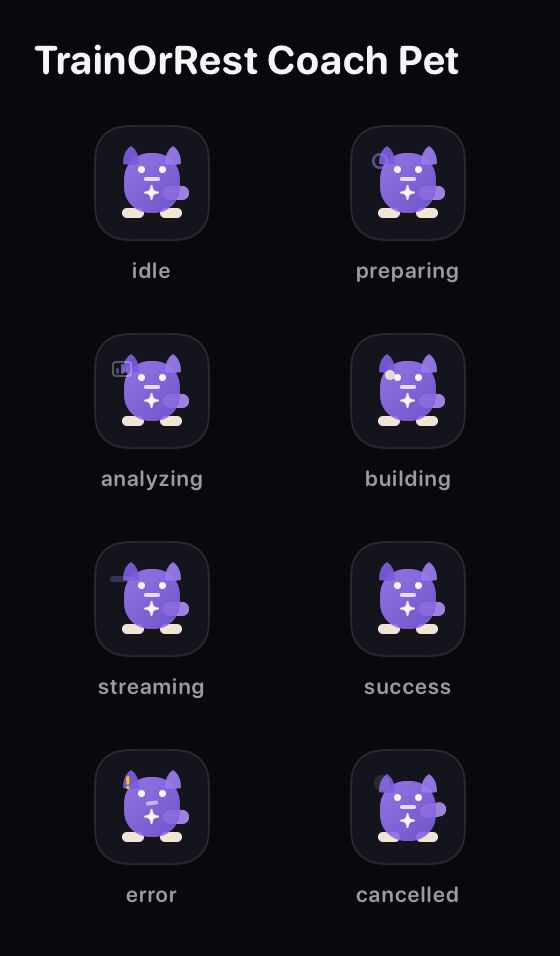
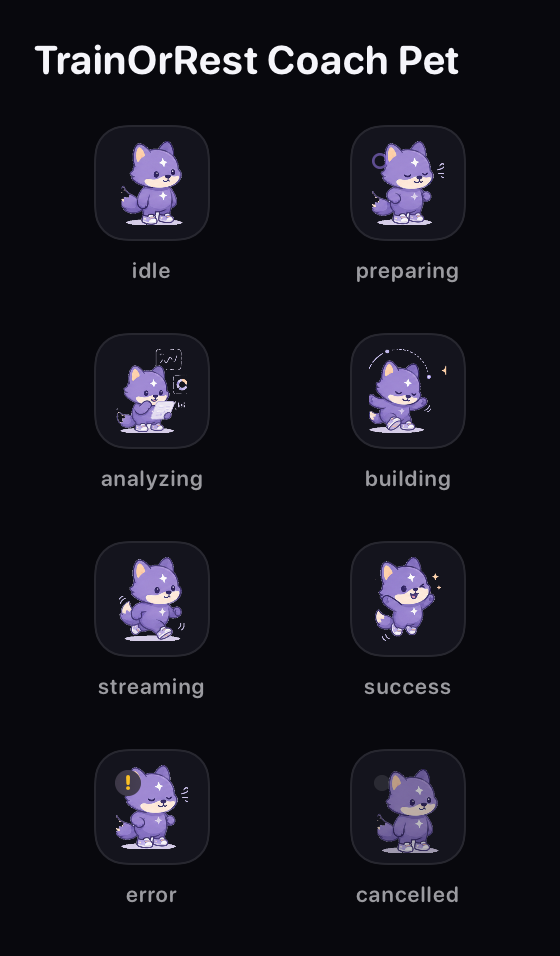
feat(coach): use generated pet assets

diff --git a/TrainOrRest/Views/ChatBubble.swift b/TrainOrRest/Views/ChatBubble.swift
@@ -688,138 +688,64 @@ struct CoachPetView: View {
 
     var body: some View {
         ZStack {
-            tail
-                .offset(x: 12, y: 5)
-                .rotationEffect(.degrees(tailAngle), anchor: .leading)
-            shoes
-                .offset(y: 15)
-            petBody
-                .offset(y: bodyOffset)
-            ears
-                .offset(y: -14 + bodyOffset)
-            face
-                .offset(y: -5 + bodyOffset)
-            prop
+            Image(assetName)
+                .resizable()
+                .scaledToFit()
+                .frame(width: 42, height: 42)
+                .scaleEffect(scale)
+                .offset(x: horizontalOffset, y: bodyOffset)
+                .rotationEffect(.degrees(rotationAngle))
+                .opacity(state == .cancelled ? 0.72 : 1)
+
+            stateOverlay
         }
         .frame(width: 42, height: 42)
-        .drawingGroup()
         .onAppear { startAnimationIfNeeded() }
         .onChange(of: state) { _, _ in startAnimationIfNeeded() }
         .onChange(of: reduceMotion) { _, _ in startAnimationIfNeeded() }
         .onChange(of: isActive) { _, _ in startAnimationIfNeeded() }
     }
 
-    private var petBody: some View {
-        RoundedRectangle(cornerRadius: 13, style: .continuous)
-            .fill(
-                LinearGradient(
-                    colors: [Theme.accent.opacity(0.94), Theme.accent2.opacity(0.88)],
-                    startPoint: .topLeading,
-                    endPoint: .bottomTrailing
-                )
-            )
-            .frame(width: 28, height: 30)
-            .overlay(alignment: .center) {
-                Image(systemName: "sparkle")
-                    .font(.system(size: 7, weight: .black))
-                    .foregroundStyle(.white.opacity(0.94))
-                    .offset(y: 5)
-            }
-    }
-
-    private var ears: some View {
-        HStack(spacing: 13) {
-            CoachPetEar()
-                .fill(Theme.accent2.opacity(0.92))
-                .frame(width: 8, height: 9)
-                .rotationEffect(.degrees(earAngle))
-            CoachPetEar()
-                .fill(Theme.accent.opacity(0.92))
-                .frame(width: 8, height: 9)
-                .scaleEffect(x: -1, y: 1)
-                .rotationEffect(.degrees(-earAngle))
-        }
-    }
-
-    private var face: some View {
-        VStack(spacing: 2) {
-            HStack(spacing: 7) {
-                Circle().fill(Color.white.opacity(0.94)).frame(width: 3.5, height: 3.5)
-                Circle().fill(Color.white.opacity(0.94)).frame(width: 3.5, height: 3.5)
-            }
-            RoundedRectangle(cornerRadius: 2, style: .continuous)
-                .fill(Color.white.opacity(state == .error ? 0.55 : 0.78))
-                .frame(width: state == .error ? 6 : 8, height: 2)
-                .rotationEffect(.degrees(state == .error ? -8 : 0))
-        }
-    }
-
-    private var tail: some View {
-        Capsule(style: .continuous)
-            .fill(Color(uiColor: UIColor(hex: 0xD9B38C)).opacity(0.86))
-            .frame(width: 13, height: 7)
-            .overlay(alignment: .trailing) {
-                Capsule(style: .continuous)
-                    .fill(Theme.accent.opacity(0.85))
-                    .frame(width: 7, height: 7)
-            }
-    }
-
-    private var shoes: some View {
-        HStack(spacing: 8) {
-            Capsule(style: .continuous)
-                .fill(Color(uiColor: UIColor(hex: 0xF2E5D6)))
-                .frame(width: 11, height: 5)
-                .offset(y: shoeOffset)
-            Capsule(style: .continuous)
-                .fill(Color(uiColor: UIColor(hex: 0xF2E5D6)))
-                .frame(width: 11, height: 5)
-                .offset(y: -shoeOffset)
+    private var assetName: String {
+        switch state {
+        case .hidden, .idle, .cancelled:
+            return "coach-pet-idle"
+        case .preparing:
+            return "coach-pet-breathing"
+        case .analyzing:
+            return "coach-pet-analyzing"
+        case .buildingRecommendation:
+            return "coach-pet-building"
+        case .streaming:
+            return "coach-pet-jog"
+        case .success:
+            return "coach-pet-success"
+        case .error:
+            return "coach-pet-breathing"
         }
     }
 
     @ViewBuilder
-    private var prop: some View {
+    private var stateOverlay: some View {
         switch state {
         case .preparing:
             Circle()
                 .strokeBorder(Theme.accent.opacity(0.55), lineWidth: 1.3)
                 .frame(width: 8, height: 8)
                 .offset(x: -14, y: -11)
-        case .analyzing:
-            RoundedRectangle(cornerRadius: 2, style: .continuous)
-                .strokeBorder(Theme.faint.opacity(0.6), lineWidth: 1)
-                .frame(width: 10, height: 8)
-                .overlay(alignment: .bottom) {
-                    HStack(alignment: .bottom, spacing: 1) {
-                        Capsule().fill(Theme.accent.opacity(0.45)).frame(width: 1.5, height: 3)
-                        Capsule().fill(Theme.accent.opacity(0.65)).frame(width: 1.5, height: 5)
-                        Capsule().fill(Theme.accent.opacity(0.35)).frame(width: 1.5, height: 4)
-                    }
-                    .padding(.bottom, 1.5)
-                }
-                .offset(x: -15, y: -11)
-        case .buildingRecommendation:
-            Circle()
-                .fill(Color(uiColor: UIColor(hex: 0xF2E5D6)).opacity(0.9))
-                .frame(width: 5, height: 5)
-                .offset(x: loop && shouldAnimate ? -12 : -9, y: -8)
-        case .streaming:
-            Capsule(style: .continuous)
-                .fill(Theme.accent.opacity(0.28))
-                .frame(width: 12, height: 3)
-                .offset(x: -15, y: -10)
         case .error:
             Image(systemName: "exclamationmark")
-                .font(.system(size: 7, weight: .black))
+                .font(.system(size: 8, weight: .black))
                 .foregroundStyle(Theme.warn)
+                .frame(width: 13, height: 13)
+                .background(.thinMaterial, in: Circle())
                 .offset(x: -12, y: -12)
         case .cancelled:
             Circle()
                 .fill(Theme.faint.opacity(0.2))
                 .frame(width: 8, height: 8)
                 .offset(x: -13, y: -12)
-        case .hidden, .idle, .success:
+        case .hidden, .idle, .analyzing, .buildingRecommendation, .streaming, .success:
             EmptyView()
         }
     }
@@ -836,19 +762,38 @@ struct CoachPetView: View {
         }
     }
 
-    private var shoeOffset: CGFloat {
+    private var horizontalOffset: CGFloat {
         guard shouldAnimate else { return 0 }
-        return loop ? -1.5 : 1.5
+        switch state {
+        case .analyzing:
+            return loop ? -0.8 : 0.8
+        case .buildingRecommendation:
+            return loop ? 0.8 : -0.8
+        default:
+            return 0
+        }
     }
 
-    private var tailAngle: Double {
-        guard shouldAnimate else { return state == .cancelled ? -10 : 0 }
-        return loop ? 13 : -8
+    private var rotationAngle: Double {
+        guard shouldAnimate else { return 0 }
+        switch state {
+        case .buildingRecommendation:
+            return loop ? -1.8 : 1.8
+        case .analyzing:
+            return loop ? 1.2 : -1.2
+        default:
+            return 0
+        }
     }
 
-    private var earAngle: Double {
-        guard shouldAnimate else { return 0 }
-        return loop ? -5 : 4
+    private var scale: CGFloat {
+        if state == .success {
+            return shouldAnimate && loop ? 1.03 : 1
+        }
+        if state == .preparing {
+            return shouldAnimate && loop ? 1.015 : 1
+        }
+        return 1
     }
 
     private func startAnimationIfNeeded() {
@@ -857,17 +802,6 @@ struct CoachPetView: View {
         withAnimation(.easeInOut(duration: state == .buildingRecommendation ? 0.7 : 0.8).repeatForever(autoreverses: true)) {
             loop = true
         }
-    }
-}
-
-private struct CoachPetEar: Shape {
-    func path(in rect: CGRect) -> Path {
-        var path = Path()
-        path.move(to: CGPoint(x: rect.midX, y: rect.minY))
-        path.addQuadCurve(to: CGPoint(x: rect.maxX, y: rect.maxY), control: CGPoint(x: rect.maxX, y: rect.midY * 0.55))
-        path.addQuadCurve(to: CGPoint(x: rect.minX, y: rect.maxY), control: CGPoint(x: rect.midX, y: rect.maxY * 1.1))
-        path.addQuadCurve(to: CGPoint(x: rect.midX, y: rect.minY), control: CGPoint(x: rect.minX, y: rect.midY * 0.55))
-        return path
     }
 }
 
